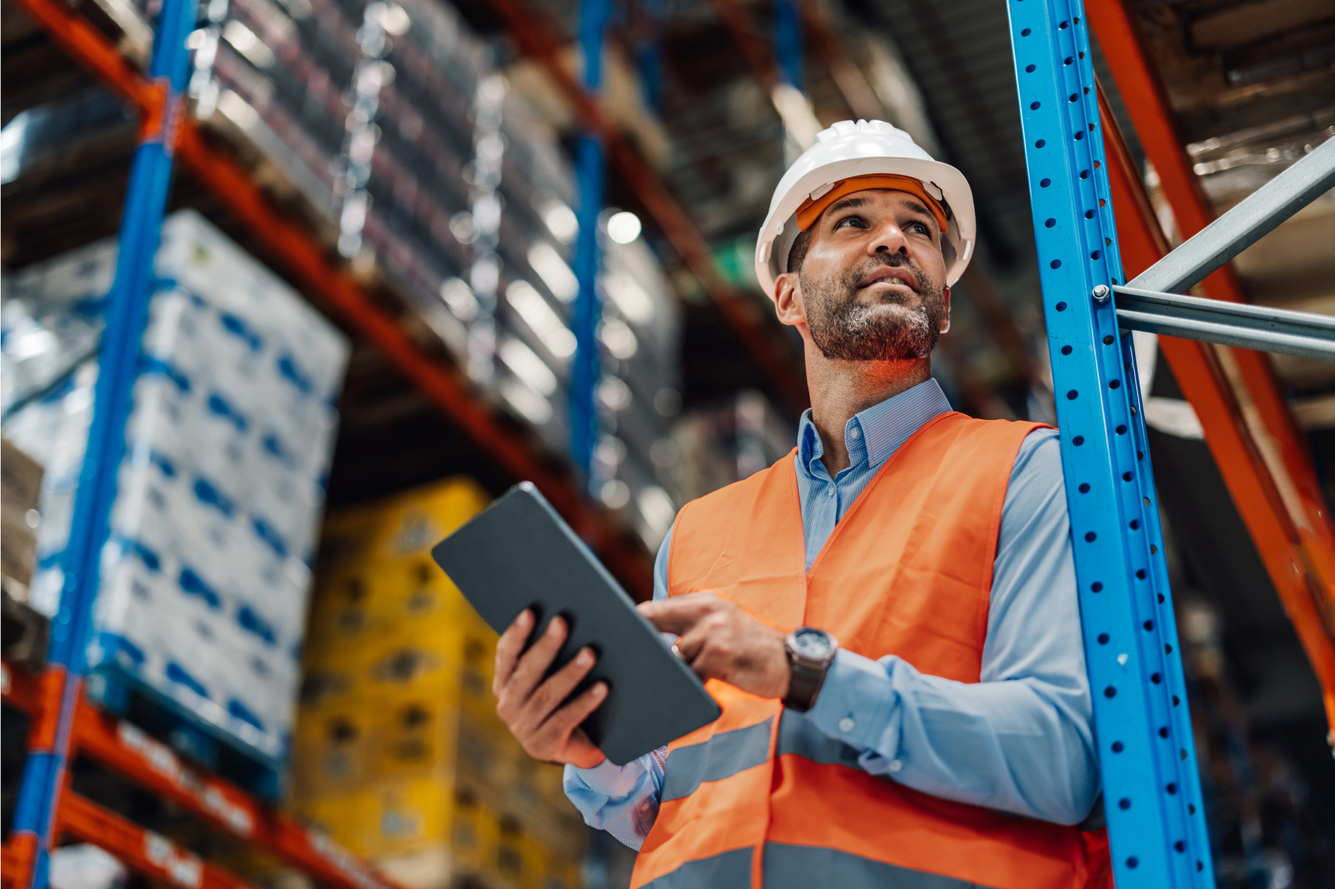
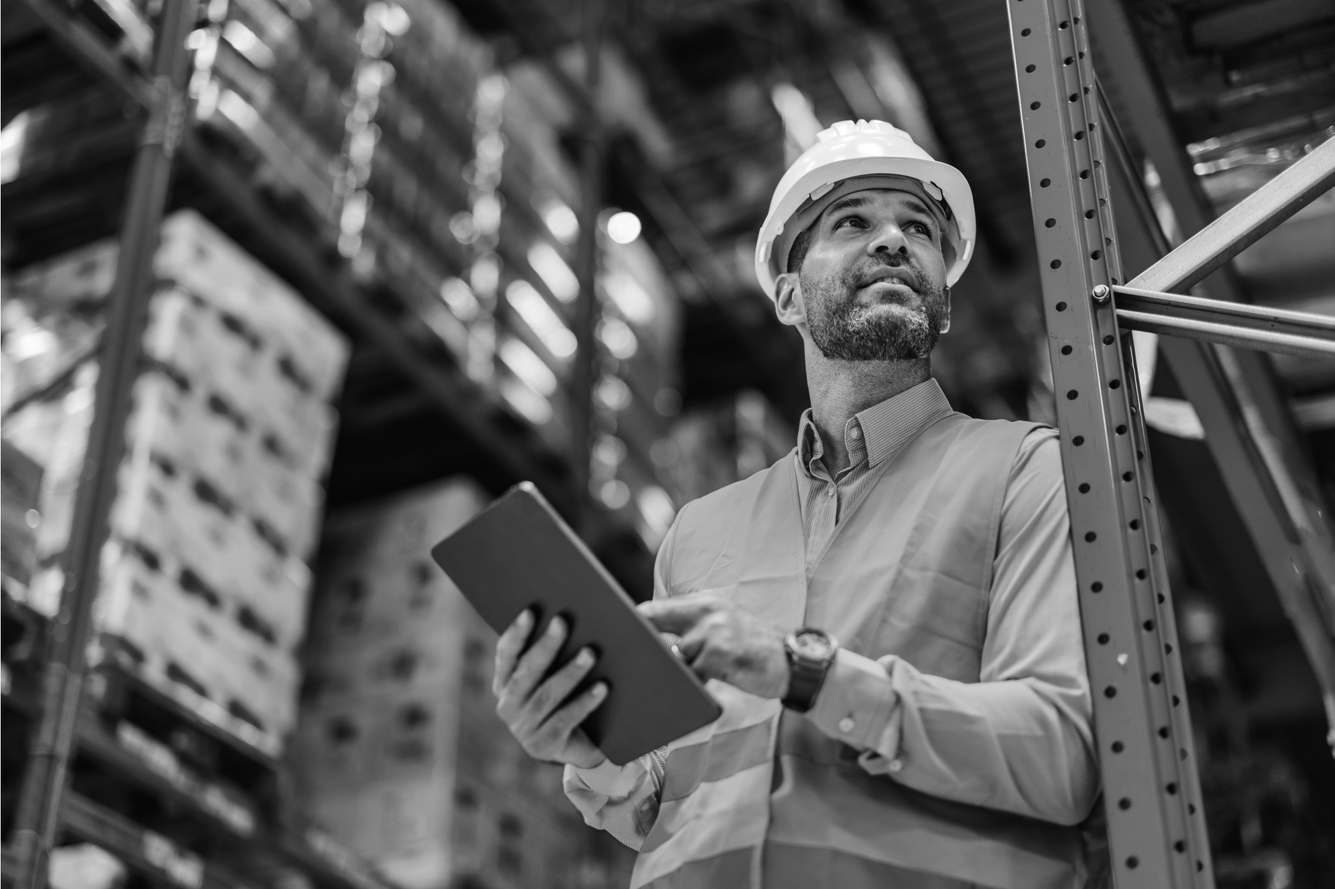
filtro b y n slides

diff --git a/assets/css/style.css b/assets/css/style.css
@@ -1092,7 +1092,7 @@ hr {
   z-index: -1;
   /* background-color: rgba(27, 26, 26, 0.15); */
   /* background-color: hsl(220deg 72% 33% / 60%); */
-  background: rgb(108 117 125 / 60%);
+  background: rgb(116 116 116 / 30%);
 }
 
 .bg-overlay-2:before {
